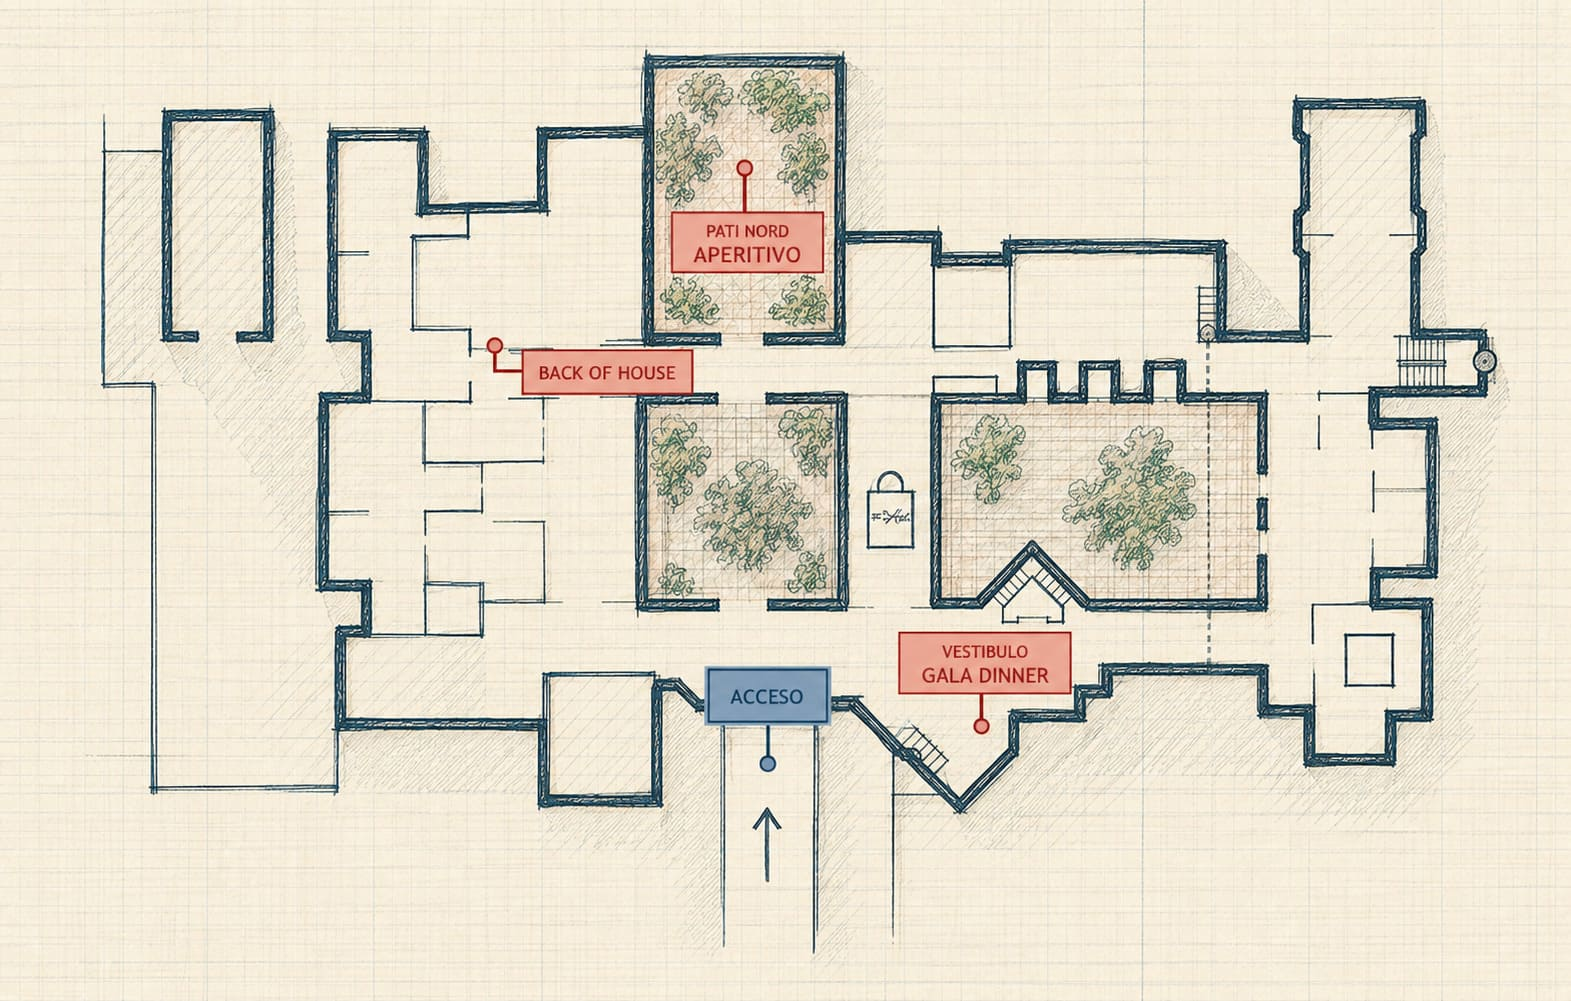
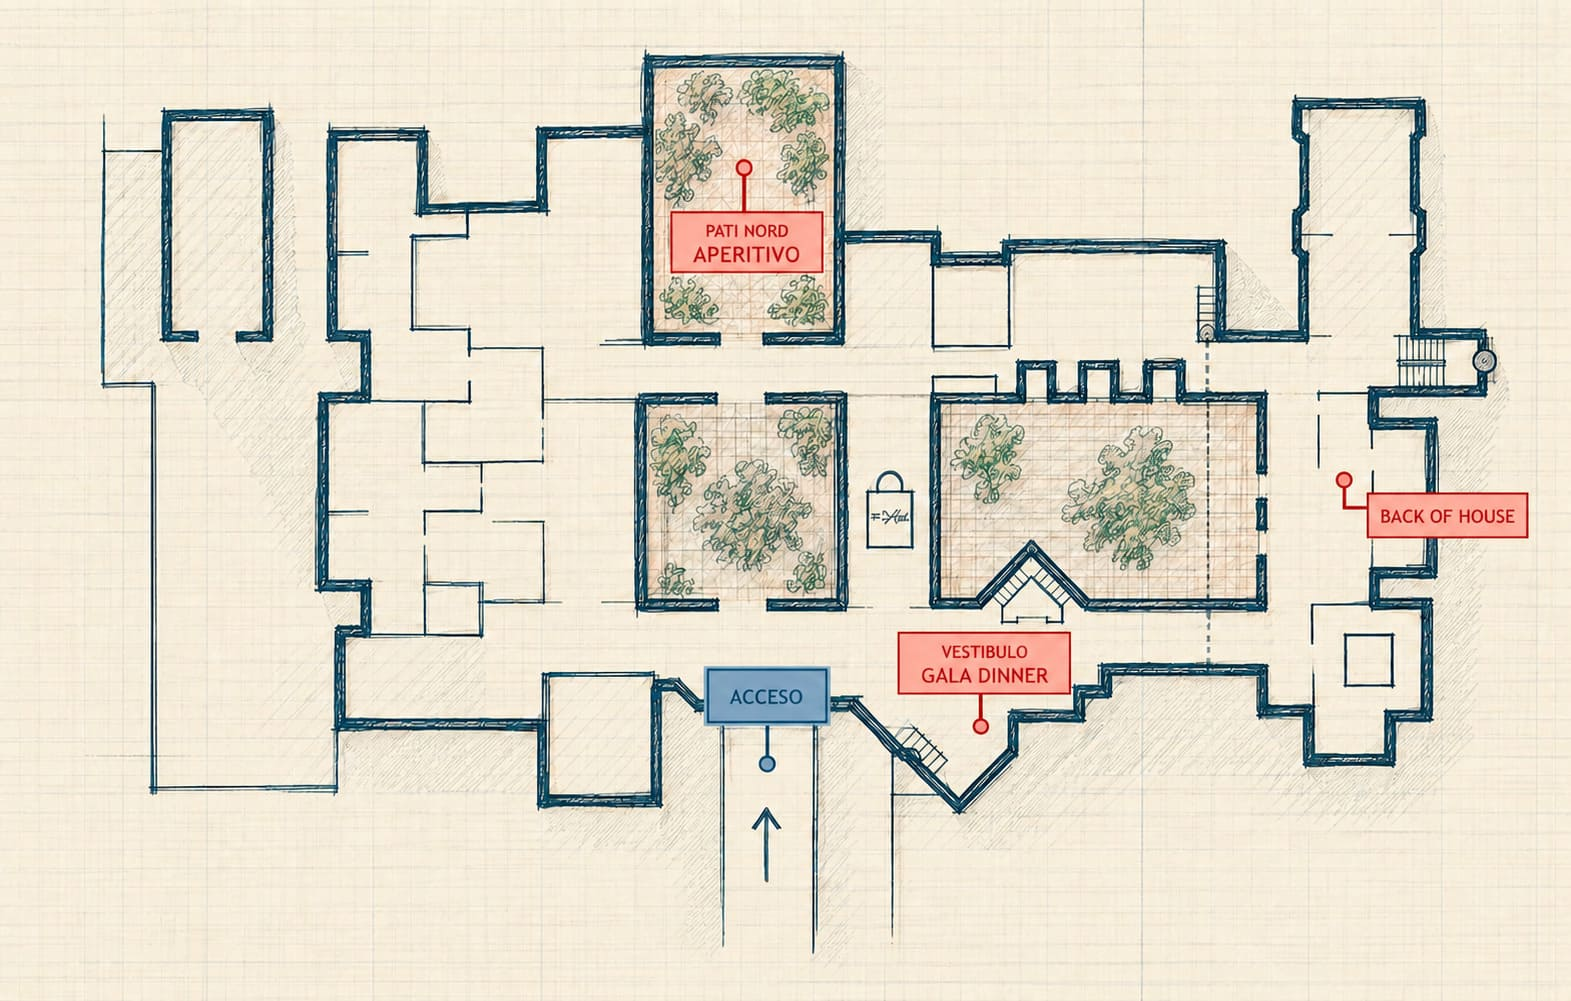
Add new images and fix typo in terminal-d.html

diff --git a/propuestas/terminal-d.html b/propuestas/terminal-d.html
@@ -55,7 +55,7 @@
 
 
       <p class="venue-hero__claim">
-        THIS ISN`T A VENUE.<br>
+        THIS ISN'T A VENUE.<br>
         IT'S A BLANK CANVAS.
       </p>
 
